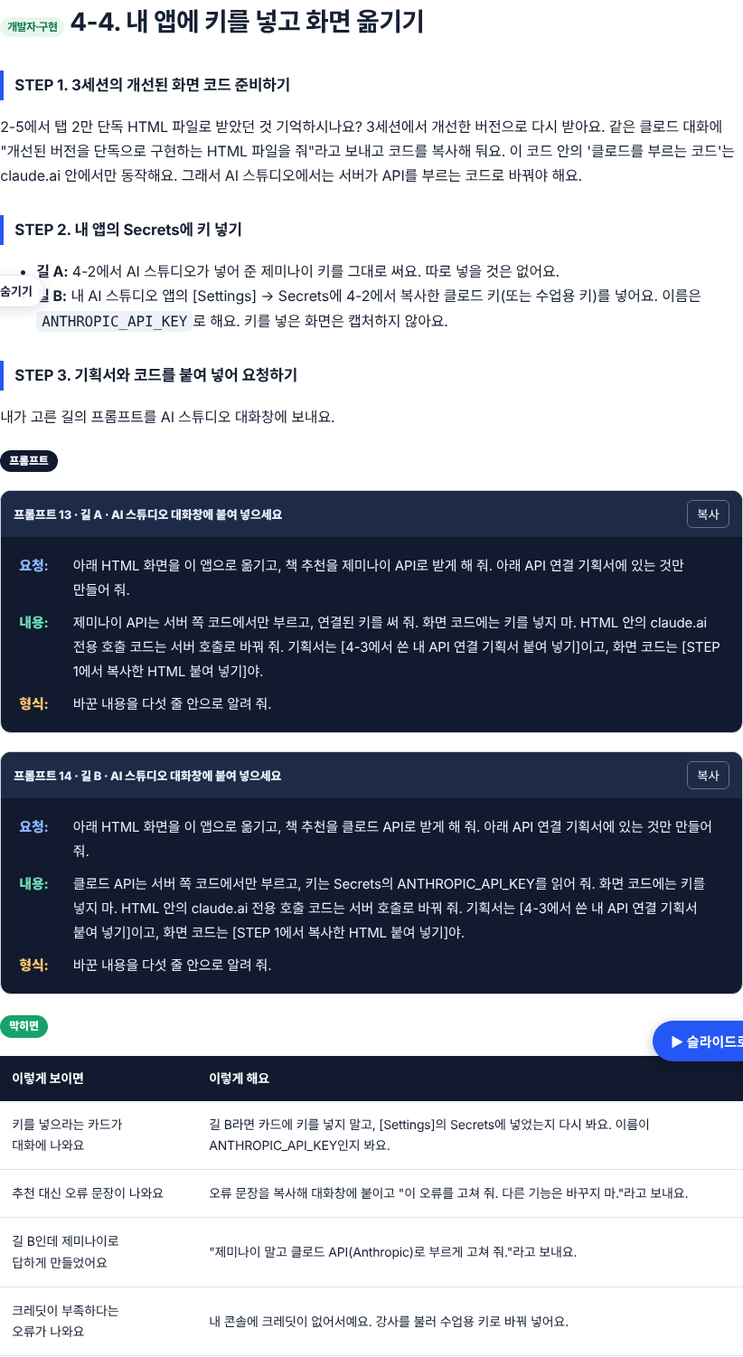
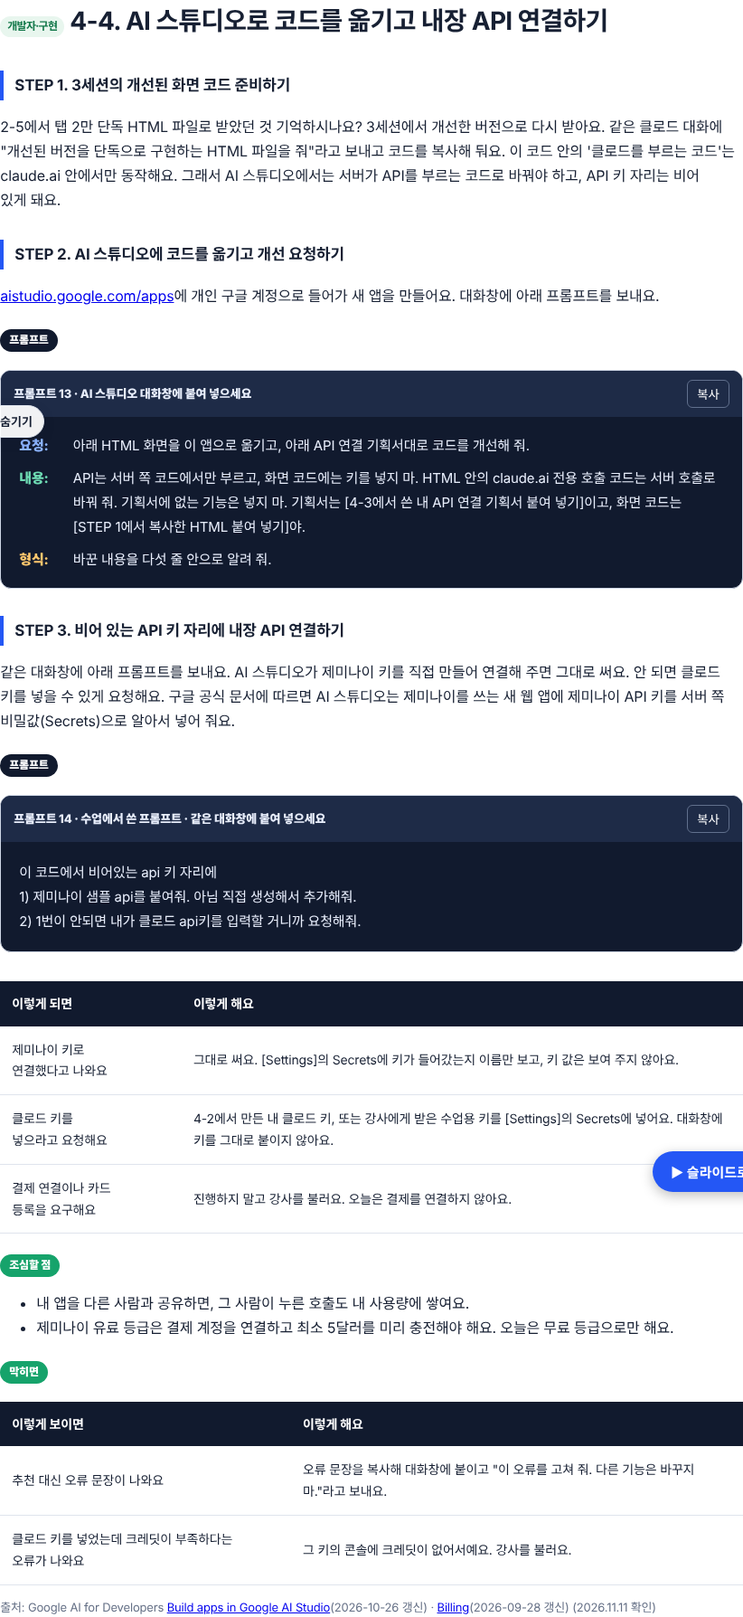
3주차 DAY 3 세션 4: 실제 진행(API 키 메뉴 찾기 → AI 스튜디오로 옮겨 내장 API 연결 → 코드 확인·Publish 테스트) 반영
Claude-Session: https://claude.ai/code/session_01C4uqyEJDMMad4kDgLNX9Dk

diff --git a/261109-ai-pm-week3/d3-ai-studio-books.html b/261109-ai-pm-week3/d3-ai-studio-books.html
@@ -298,7 +298,7 @@ aside nav a.active{border-left-color:var(--blue)}
 <div class="grp"><div class="grp-label">SESSION 1</div><a class="l2" href="#s1">LLM이 무엇이고 어디서 틀리나</a><a class="l3" href="#s1-1">1-1. LLM이란?</a><a class="l3" href="#s1-2">1-2. 책 추천과 링크를 받아 직접 눌러 보기</a><a class="l3" href="#s1-3">1-3. 결과</a></div>
 <div class="grp"><div class="grp-label">SESSION 2</div><a class="l2" href="#s2">클로드 아티팩트로 감정 책 추천 만들기</a><a class="l3" href="#s2-1">2-1. 웹 페이지에 AI를 붙이는 세 가지 길</a><a class="l3" href="#s2-2">2-2. 텍스트 프로토타입과 입력·처리·출력</a><a class="l3" href="#s2-3">2-3. 입력과 출력을 바꿔 다른 화면 만들기</a><a class="l3" href="#s2-4">2-4. 규칙 탭과 AI 탭 견주기</a><a class="l3" href="#s2-5">2-5. 코드에서 AI 탭의 차이 찾기</a><a class="l3" href="#s2-6">2-6. 개발자에게 줄 요구사항 쓰기</a><a class="l3" href="#s2-7">2-7. 결과</a></div>
 <div class="grp"><div class="grp-label">SESSION 3</div><a class="l2" href="#s3">요구사항으로 고치고 테스트하기</a><a class="l3" href="#s3-1">3-1. [기획자] 문제와 해결 방안 표</a><a class="l3" href="#s3-2">3-2. [구현] 개선 요청대로 고치기</a><a class="l3" href="#s3-3">3-3. [구현] AI에게 테스트 시키기</a><a class="l3" href="#s3-4">3-4. [확인] 검증표와 유저플로우</a><a class="l3" href="#s3-5">3-5. [구현] 개선된 버전 만들기</a><a class="l3" href="#s3-6">3-6. [확인] 무엇이 개선됐는지 묻기</a><a class="l3" href="#s3-7">3-7. [기획자] AS-IS·TO-BE 도식</a><a class="l3" href="#s3-8">3-8. 결과</a></div>
-<div class="grp"><div class="grp-label">SESSION 4</div><a class="l2" href="#s4">API 키를 만들어 AI 스튜디오 앱에 붙이기</a><a class="l3" href="#s4-1">4-1. 아티팩트 내장 AI vs API 키</a><a class="l3" href="#s4-2">4-2. API 키 만들기·사용량·한도</a><a class="l3" href="#s4-3">4-3. [기획자] API 연결 기획서</a><a class="l3" href="#s4-4">4-4. [구현] 내 앱에 키 넣고 옮기기</a><a class="l3" href="#s4-5">4-5. [확인] 기획서와 결과 견주기</a><a class="l3" href="#s4-6">4-6. 결과</a></div>
+<div class="grp"><div class="grp-label">SESSION 4</div><a class="l2" href="#s4">구글 AI 스튜디오로 옮기고 API 연결하기</a><a class="l3" href="#s4-1">4-1. 아티팩트 내장 AI vs API 키</a><a class="l3" href="#s4-2">4-2. API 키 메뉴·사용량·한도</a><a class="l3" href="#s4-3">4-3. [기획자] API 연결 기획서</a><a class="l3" href="#s4-4">4-4. [구현] AI 스튜디오로 옮기고 내장 API 연결</a><a class="l3" href="#s4-5">4-5. [확인] 키 위치 확인·배포 테스트</a><a class="l3" href="#s4-6">4-6. 결과</a></div>
 <div class="grp"><div class="grp-label">SESSION 5</div><a class="l2" href="#s5">추천 프롬프트 설계하기</a><a class="l3" href="#s5-1">5-1. 프롬프트를 잘 쓰는 세 가지 방법</a><a class="l3" href="#s5-2">5-2. [기획자] 추천 프롬프트 기획서</a><a class="l3" href="#s5-3">5-3. [구현] 기획서대로 지시문 바꾸기</a><a class="l3" href="#s5-4">5-4. [확인] 기획서와 결과 견주기</a><a class="l3" href="#s5-5">5-5. 결과</a></div>
 <div class="grp"><div class="grp-label">선택</div><a class="l2" href="#s6">근거를 주고 추천하기 (RAG 맛보기)</a><a class="l3" href="#s6-1">6-1. RAG란?</a><a class="l3" href="#s6-2">6-2. [기획자] 근거 추천 기획서</a><a class="l3" href="#s6-3">6-3. [구현] 기획서대로 목록 붙이기</a><a class="l3" href="#s6-4">6-4. [확인] 기획서와 결과 견주기</a><a class="l3" href="#s6-5">6-5. 결과</a></div>
 <div class="grp"><div class="grp-label">마무리</div><a class="l2" href="#wrap">오늘 정리와 과제</a></div>
@@ -310,7 +310,7 @@ aside nav a.active{border-left-color:var(--blue)}
 <header class="hero">
 <div class="kicker">AI 프로덕트 매니저 · 3주차 DAY 3 · 2026.11.11 (수)</div>
 <h1><em>오늘의 감정</em>을 넣으면 맞는 책 3권을 골라 주는 서비스를 클로드로 만들어요</h1>
-<p>감정 키워드를 넣으면 책 3권을 추천하는 프로토타입을 클로드 아티팩트로 만들어요. 먼저 LLM이 어디서 틀리는지 보고, 규칙으로 고르는 버전과 AI가 고르는 버전을 견줘요. 오후에는 기획자가 요구사항과 기획서를 쓰고, 개발자 입장에서 그대로 구현하고, 다시 기획자가 확인하는 흐름을 되풀이해요. 그 흐름으로 API 키를 직접 만들어 구글 AI 스튜디오 앱에 붙이고, 추천 프롬프트도 설계해요.</p>
+<p>감정 키워드를 넣으면 책 3권을 추천하는 프로토타입을 클로드 아티팩트로 만들어요. 먼저 LLM이 어디서 틀리는지 보고, 규칙으로 고르는 버전과 AI가 고르는 버전을 견줘요. 오후에는 기획자가 요구사항과 기획서를 쓰고, 개발자 입장에서 그대로 구현하고, 다시 기획자가 확인하는 흐름을 되풀이해요. 그 흐름으로 구글 AI 스튜디오에 코드를 옮겨 API를 연결하고, 추천 프롬프트도 설계해요.</p>
 <div class="hero-grid">
 <div><b>일정</b><span>11월 11일(수) 09:00–18:00 · 실시간 비대면</span></div>
 <div><b>준비물</b><span>크롬, 클로드 유료 계정, 개인 구글 계정</span></div>
@@ -324,7 +324,7 @@ aside nav a.active{border-left-color:var(--blue)}
 <tr><th>시간</th><td>09:00–18:00 (점심 12:00–13:00, 수업 8시간)</td></tr>
 <tr><th>교과</th><td>[기본] AI 서비스 개발 · 9일차 (총 18일)</td></tr>
 <tr><th>교육 목표</th><td>LLM의 개념과 한계를 알고, 사용자의 입력에 AI가 답하는 서비스를 기획자 → 구현 → 기획자 확인의 흐름으로 만들고, API 키로 내 앱에 붙인다.</td></tr>
-<tr><th>수업이 끝나면</th><td>① LLM이 무엇이고 어떤 답을 지어낼 수 있는지 말하기<br/>② 클로드 아티팩트로 규칙 탭과 AI 탭을 만들고 코드에서 지시문 찾기<br/>③ 요구사항을 입력·처리·출력으로 써서 고치고, 테스트하고, AS-IS·TO-BE로 정리하기<br/>④ API 키를 만들고 사용량·지출·한도를 확인한 뒤, 구글 AI 스튜디오 앱의 서버에 붙이기<br/>⑤ 추천 프롬프트 기획서를 쓰고 지시문 세 버전을 견주기</td></tr>
+<tr><th>수업이 끝나면</th><td>① LLM이 무엇이고 어떤 답을 지어낼 수 있는지 말하기<br/>② 클로드 아티팩트로 규칙 탭과 AI 탭을 만들고 코드에서 지시문 찾기<br/>③ 요구사항을 입력·처리·출력으로 써서 고치고, 테스트하고, AS-IS·TO-BE로 정리하기<br/>④ 구글 AI 스튜디오로 코드를 옮겨 API를 연결하고, 사용량·지출·한도를 확인하고, 배포해서 테스트하기<br/>⑤ 추천 프롬프트 기획서를 쓰고 지시문 세 버전을 견주기</td></tr>
 </table></div>
 </section>
 
@@ -345,7 +345,7 @@ aside nav a.active{border-left-color:var(--blue)}
 <tr><td>10:30–12:00</td><td>SESSION 2</td><td><a href="#s2">클로드 아티팩트로 감정 책 추천 만들기</a></td></tr>
 <tr><td>12:00–13:00</td><td>점심</td><td></td></tr>
 <tr><td>13:00–15:20</td><td>SESSION 3</td><td><a href="#s3">요구사항으로 고치고 테스트하기</a></td></tr>
-<tr><td>15:30–16:30</td><td>SESSION 4</td><td><a href="#s4">API 키를 만들어 AI 스튜디오 앱에 붙이기</a></td></tr>
+<tr><td>15:30–16:30</td><td>SESSION 4</td><td><a href="#s4">구글 AI 스튜디오로 옮기고 API 연결하기</a></td></tr>
 <tr><td>16:30–17:30</td><td>SESSION 5</td><td><a href="#s5">추천 프롬프트 설계하기</a></td></tr>
 <tr><td>시간이 남으면</td><td>선택</td><td><a href="#s6">근거를 주고 추천하기 (RAG 맛보기)</a></td></tr>
 <tr><td>17:30–18:00</td><td>정리·회고</td><td><a href="#wrap">오늘 정리와 과제</a></td></tr>
@@ -631,7 +631,7 @@ aside nav a.active{border-left-color:var(--blue)}
 </section>
 
 <section class="section session" id="s4">
-<div class="session-head"><div class="eyebrow">SESSION 4 · 15:30–16:30</div><h2>API 키를 만들어 구글 AI 스튜디오 앱에 붙이기</h2><p>지금까지는 클로드 아티팩트 안에서 클로드를 불렀어요. 이번에는 API 키를 직접 만들고, 구글 AI 스튜디오로 만든 내 앱에 그 키를 넣어요. 키를 만드는 길은 두 가지예요. 사용량과 지출을 어디서 보는지, 한도는 어떻게 거는지도 함께 익혀요.</p>
+<div class="session-head"><div class="eyebrow">SESSION 4 · 15:30–16:30</div><h2>구글 AI 스튜디오로 옮기고 API 연결하기</h2><p>지금까지는 클로드 아티팩트 안에서 클로드를 불렀어요. 이번에는 클로드 콘솔에서 API 키 메뉴를 찾아보고, 구글 AI 스튜디오로 코드를 옮겨 내장 API(제미나이 키)를 연결해요. 내장 API가 안 되면 클로드 키를 넣어요. 사용량과 지출을 어디서 보는지, 한도는 어떻게 거는지도 함께 익혀요.</p>
 <div class="why-box"><b>왜 하나?</b>실제 서비스는 아티팩트가 아니라 내 서버에서 AI를 불러요. 그때 API 키를 어디에 두고, 요금과 실패를 어떻게 다룰지는 기획자가 정해야 해요.</div></div>
 
 <div class="topic" id="s4-1"><h3><span class="stage">개념</span>4-1. 아티팩트 내장 AI와 API 키는 무엇이 다른가요?</h3>
@@ -644,67 +644,51 @@ aside nav a.active{border-left-color:var(--blue)}
 <p class="source-note">출처: Google AI for Developers <a href="https://ai.google.dev/gemini-api/docs/aistudio-build-mode" target="_blank" rel="noopener">Build apps in Google AI Studio</a>(2026-10-26 갱신) · <a href="https://ai.google.dev/gemini-api/docs/aistudio-fullstack" target="_blank" rel="noopener">Develop full-stack apps in Google AI Studio</a>(2026-10-20 갱신) (2026.11.11 확인)</p>
 </div>
 
-<div class="topic" id="s4-2"><h3><span class="stage">준비</span>4-2. API 키 만들기</h3>
-<p>두 길 중 하나를 골라요. 무료 등급 제미나이 키를 쓸 수 있다면 길 A로 해요. 어느 길이든 키를 만든 뒤 사용량·지출 화면을 열어 보고, 한도를 거는 곳까지 확인해요.</p>
-<div class="table-wrap"><table><tr><th></th><th>길 A · 구글 AI 스튜디오가 제미나이 키를 만들어 연결</th><th>길 B · 클로드 콘솔에서 내가 직접 키 만들기</th></tr>
-<tr><td><b>쓰는 AI</b></td><td>제미나이</td><td>클로드</td></tr>
-<tr><td><b>키를 만드는 사람</b></td><td>AI 스튜디오가 알아서 만들어 Secrets에 넣어요</td><td>내가 콘솔에서 만들고, 내 앱의 Secrets에 직접 넣어요</td></tr>
-<tr><td><b>요금</b></td><td>새 계정은 무료 등급으로 시작해요. 결제를 연결하지 않아요</td><td>선불 크레딧으로 결제해요. Pro 요금제에는 API 크레딧이 없어요</td></tr>
+<div class="topic" id="s4-2"><h3><span class="stage">준비</span>4-2. API 키 받기 메뉴 찾고, 사용량·한도 보는 곳 알기</h3>
+<p>먼저 클로드 콘솔에서 API 키를 받는 메뉴를 찾아봐요. 내 계정에서 키를 만들 수 있는지에 따라, 4-4에서 어떤 키를 쓸지가 정해져요.</p>
+<p><b>STEP 1. 클로드 콘솔에서 API 키 받기 메뉴 찾기</b></p>
+<ol class="do-steps">
+<li><p><a href="https://platform.claude.com" target="_blank" rel="noopener">platform.claude.com</a>(클로드 콘솔)에 로그인해요.</p></li>
+<li><p>API 키 메뉴를 찾아요. 메뉴가 안 보이면 주소창에 <a href="https://platform.claude.com/settings/keys" target="_blank" rel="noopener">platform.claude.com/settings/keys</a>를 넣어 바로 들어가요.</p></li>
+<li><p>[Create key]가 보이면 키 이름(예: <code class="inline">aipm-day3</code>)을 넣고 만들어요. 만든 키(<code class="inline">sk-ant-</code>로 시작)는 <b>만들 때 한 번만</b> 보여요. 바로 복사해 둬요.</p></li>
+</ol>
+<div class="table-wrap"><table><tr><th>이렇게 보이면</th><th>뜻</th><th>4-4에서 쓸 키</th></tr>
+<tr><td>[Create key]가 보이고 키를 만들었어요</td><td>내 콘솔에서 키를 만들 수 있어요. 다만 크레딧이 없으면 키로 부를 때 답이 오지 않아요</td><td>AI 스튜디오 내장 API를 먼저 쓰고, 클로드로 하고 싶으면 내 키</td></tr>
+<tr><td>API 키 메뉴가 없어요</td><td>교육기관에서 받은 계정은 API 키 메뉴가 없을 수 있어요. 개인 계정으로 로그인하면 보일 수 있어요</td><td>AI 스튜디오 내장 API</td></tr>
+<tr><td>키 화면 대신 크레딧 구매(결제) 화면이 나와요</td><td>클로드 API는 선불 크레딧으로 써요. Pro 요금제에는 API 크레딧이 없어요. 결제하지 않아요</td><td>AI 스튜디오 내장 API</td></tr>
 </table></div>
-
-<p><b>길 A. 구글 AI 스튜디오에서 제미나이 키 연결하기 (무료 등급 키를 쓸 수 있을 때)</b></p>
-<ol class="do-steps">
-<li><p><a href="https://aistudio.google.com/apps" target="_blank" rel="noopener">aistudio.google.com/apps</a>에 개인 구글 계정으로 들어가 새 앱을 만들어요.</p></li>
-<li><p>대화창에 "제미나이 API 키를 연결해서 동작하게 해 줘."라고 보내요. AI 스튜디오는 제미나이를 쓰는 새 웹 앱에 제미나이 API 키를 서버 쪽 Secrets로 알아서 넣어 줘요.</p></li>
-<li><p>[Settings]의 Secrets에 키가 들어갔는지 이름만 봐요. 키 값은 복사하거나 화면 공유로 보여 주지 않아요.</p></li>
-</ol>
-<p class="blk k-chk"><span>조심할 점</span></p>
+<div class="ref-box"><b>참고 · 수업용 클로드 키는 이렇게 운영해요 (강사)</b>
 <ul>
-<li>내 앱을 다른 사람과 공유하면, 그 사람이 누른 호출도 내 사용량에 쌓여요.</li>
-<li>오늘은 결제를 연결하지 않아요. 유료 등급은 결제 계정을 연결하고 최소 5달러를 미리 충전해야 해요.</li>
-<li>결제 연결이나 카드 등록을 요구하는 화면이 나오면 진행하지 말고, 길 B로 바꾸거나 강사를 불러요.</li>
-</ul>
-
-<p><b>길 B. 클로드 콘솔에서 API 키 직접 만들기</b></p>
-<ol class="do-steps">
-<li><p><a href="https://platform.claude.com" target="_blank" rel="noopener">platform.claude.com</a>(클로드 콘솔)에 로그인해요. 계정이 없으면 새로 만들어요.</p></li>
-<li><p>API 키 화면(<a href="https://platform.claude.com/settings/keys" target="_blank" rel="noopener">platform.claude.com/settings/keys</a>)에서 [Create key]를 눌러요.</p></li>
-<li><p>키 이름(예: <code class="inline">aipm-day3</code>)을 넣고, 만료 기간을 골라요.</p></li>
-<li><p>만든 키(<code class="inline">sk-ant-</code>로 시작)는 <b>만들 때 한 번만</b> 보여요. 바로 복사해 4-4에서 내 앱에 넣어요. 잃어버리면 다시 볼 수 없어서 새로 만들어야 해요.</p></li>
-</ol>
-<div class="notice"><b>크레딧이 없으면 키를 만들어도 답이 오지 않아요</b><br/>클로드 API는 선불 크레딧으로 써요. Pro 요금제에는 API 크레딧이 들어 있지 않아요. 내 콘솔에 크레딧이 없으면, 강사가 알려 주는 수업용 키를 내 앱에 넣어요.</div>
-
-<div class="ref-box"><b>참고 · 수업용 키는 이렇게 운영해요 (강사)</b>
-<ul>
-<li>Anthropic은 API 키를 다른 사람과 나누지 말고, 각자 키를 받으라고 안내해요. 오늘은 수업을 위해 강사가 만든 키 하나를 1시간 동안만 함께 쓰고, 수업이 끝나면 강사가 키를 지워요.</li>
+<li>Anthropic은 API 키를 다른 사람과 나누지 말고, 각자 키를 받으라고 안내해요. 내장 API가 안 되는 분이 있을 때만, 강사가 만든 수업용 키 하나를 1시간 동안 함께 쓰고, 수업이 끝나면 강사가 키를 지워요.</li>
 <li>강사는 수업용 워크스페이스를 따로 만들고, 그 워크스페이스에 월 지출 한도를 걸어요. 키는 그 워크스페이스 안에서 만들어요.</li>
-<li>키를 지우면 그 키로는 더 이상 클로드를 부를 수 없어요. 그래서 수업이 끝나면 수업용 키를 넣은 앱의 AI 기능은 멈춰요.</li>
+<li>수업용 키는 슬랙 공개 채널에 올리지 않고, 필요한 분에게만 따로 전달해요. 공개 채널에 올렸다면 수업이 끝나자마자 키를 지우고 메시지도 지워요.</li>
+<li>키를 지우면 그 키로는 더 이상 클로드를 부를 수 없어요. 그래서 수업용 키를 넣은 앱의 AI 기능은 수업 뒤에 멈춰요.</li>
 </ul>
-<p><b>학생이 지킬 것:</b> 키를 캡처하거나, 슬랙 공개 채널·깃헙·노션에 올리지 않아요. 키는 내 앱의 Secrets에만 넣어요.</p>
+<p><b>학생이 지킬 것:</b> 키를 캡처하거나, 슬랙 공개 채널·깃헙·노션에 올리지 않아요. 키는 내 앱 안에만 넣어요.</p>
 </div>
 
-<p><b>사용량·지출을 보고, 한도를 거는 곳</b></p>
-<p>키를 만들었으면 아래 화면을 직접 열어 봐요. 기획자는 "얼마나 쓰고 있는지"와 "어디서 멈추게 할지"를 알아야 해요.</p>
-<div class="table-wrap"><table><tr><th>보는 것</th><th>클로드 콘솔 (길 B)</th><th>구글 AI 스튜디오 (길 A)</th></tr>
+<p><b>STEP 2. 사용량·지출을 보고, 한도를 거는 곳 알기</b></p>
+<p>기획자는 "얼마나 쓰고 있는지"와 "어디서 멈추게 할지"를 알아야 해요. 내가 쓰는 쪽의 화면을 열어 봐요.</p>
+<div class="table-wrap"><table><tr><th>보는 것</th><th>클로드 콘솔</th><th>구글 AI 스튜디오</th></tr>
 <tr><td><b>사용량</b></td><td>[Usage] 화면 (<a href="https://platform.claude.com/usage" target="_blank" rel="noopener">platform.claude.com/usage</a>). 워크스페이스·모델·날짜·API 키별로 걸러 볼 수 있어요</td><td>[Dashboard] → [Usage]. 사용 한도는 <a href="https://aistudio.google.com/rate-limit" target="_blank" rel="noopener">aistudio.google.com/rate-limit</a></td></tr>
 <tr><td><b>지출</b></td><td>[Cost] 화면 (<a href="https://platform.claude.com/cost" target="_blank" rel="noopener">platform.claude.com/cost</a>). 워크스페이스·모델·달별로 볼 수 있어요</td><td>[Billing] 화면에서 잔액과 결제를 봐요 (무료 등급은 결제 없음)</td></tr>
 <tr><td><b>한도 걸기</b></td><td>[Workspaces]에서 워크스페이스를 고르고 [Spend limits] → [Change limit]로 월 지출 한도를 걸어요. 기본 워크스페이스에는 걸 수 없어요</td><td>[Spend] 화면의 [Monthly spend cap] → [Edit spend cap] (결제를 연결한 프로젝트)</td></tr>
 </table></div>
 <p class="blk k-chk"><span>확인할 점</span></p>
-<ul class="checklist"><li>길 A 또는 길 B로 키를 하나 준비했다</li><li>사용량 화면과 지출 화면을 열어 봤다</li><li>한도를 거는 메뉴가 어디 있는지 찾았다</li></ul>
-<div class="notice"><b>안 되면 강사를 불러요</b><br/>키 만들기 버튼이 눌리지 않거나, 화면이 교안과 다르거나, 키를 잃어버렸으면 혼자 오래 붙잡지 말고 슬랙 쓰레드나 손들기로 강사를 불러요.</div>
+<ul class="checklist"><li>내 계정에서 API 키 메뉴가 보이는지 확인했다</li><li>사용량·지출·한도 메뉴가 어디 있는지 찾았다</li></ul>
+<div class="notice"><b>안 되면 강사를 불러요</b><br/>화면이 교안과 다르거나 막히면 혼자 오래 붙잡지 말고 슬랙 쓰레드나 손들기로 강사를 불러요.</div>
 <p class="source-note">출처: Claude 공식 문서 <a href="https://platform.claude.com/docs/en/get-api-key" target="_blank" rel="noopener">Get your Claude API key</a> · Claude 고객센터 <a href="https://support.claude.com/en/articles/9534590-cost-and-usage-reporting-in-the-claude-console" target="_blank" rel="noopener">Cost and usage reporting in the Claude Console</a> · <a href="https://support.claude.com/en/articles/9796807-create-and-manage-workspaces-in-the-claude-console" target="_blank" rel="noopener">Create and manage Workspaces</a> · <a href="https://support.claude.com/en/articles/8977456-how-do-i-pay-for-my-claude-api-usage" target="_blank" rel="noopener">How do I pay for my Claude API usage?</a> · <a href="https://support.claude.com/en/articles/17154008-monthly-api-credits-for-max-ultra-and-team-plans" target="_blank" rel="noopener">Monthly API credits for Max, Ultra, and Team plans</a> · <a href="https://support.claude.com/en/articles/9767949-api-key-best-practices-keep-your-keys-safe-and-secure" target="_blank" rel="noopener">API key best practices</a> · Google AI for Developers <a href="https://ai.google.dev/gemini-api/docs/billing" target="_blank" rel="noopener">Billing</a>(2026-09-28 갱신) · <a href="https://ai.google.dev/gemini-api/docs/rate-limits" target="_blank" rel="noopener">Rate limits</a>(2026-10-28 갱신) (2026.11.11 확인)</p>
 </div>
 
 <div class="topic" id="s4-3"><h3><span class="stage plan">기획자</span>4-3. API 연결 기획서 쓰기</h3>
 <p>3세션에서 개선한 마음책방을 구글 AI 스튜디오 앱으로 옮겨, API로 답하게 해요. 개발자에게 넘기기 전에 기획서를 먼저 써요.</p>
-<p class="blk k-ex"><span>예시</span>API 연결 기획서 (길 B · 클로드)</p>
+<p class="blk k-ex"><span>예시</span>API 연결 기획서</p>
 <div class="table-wrap"><table>
 <tr><th>항목</th><th>내용</th></tr>
 <tr><td>옮길 화면</td><td>3세션에서 개선한 마음책방 (감정 입력 → 책 3권 카드)</td></tr>
 <tr><td>AI를 부르는 곳</td><td>[책 추천받기]를 누를 때 한 번</td></tr>
-<tr><td>쓸 AI</td><td>클로드 API, 모델은 클로드 하이쿠(claude-haiku-5-5). 길 A라면 AI 스튜디오가 고른 제미나이 모델</td></tr>
-<tr><td>키를 두는 곳</td><td>AI 스튜디오 Secrets. 서버 쪽 코드만 읽음. 화면 코드에는 두지 않음</td></tr>
+<tr><td>쓸 AI</td><td>AI 스튜디오 내장 API(무료 등급 제미나이). 안 되면 클로드 API(모델은 클로드 하이쿠, claude-haiku-5-5)</td></tr>
+<tr><td>키를 두는 곳</td><td>AI 스튜디오 [Settings]의 Secrets. 서버 쪽 코드만 읽음. 화면 코드에는 두지 않음</td></tr>
 <tr><td>지시문</td><td>3세션에서 개선한 지시문 그대로</td></tr>
 <tr><td>실패할 때</td><td>"지금은 추천을 불러오지 못했어요. 잠시 뒤에 다시 눌러 주세요" 한 줄</td></tr>
 <tr><td>그대로 둘 것</td><td>마음책방의 화면 구성과 디자인</td></tr>
@@ -726,54 +710,64 @@ aside nav a.active{border-left-color:var(--blue)}
 <ul class="checklist"><li>"키는 Secrets에만 두고 화면 코드에는 두지 않는다"가 기획서에 들어 있다</li><li>실패할 때 사용자에게 보여 줄 문구가 있다</li></ul>
 </div>
 
-<div class="topic" id="s4-4"><h3><span class="stage dev">개발자·구현</span>4-4. 내 앱에 키를 넣고 화면 옮기기</h3>
+<div class="topic" id="s4-4"><h3><span class="stage dev">개발자·구현</span>4-4. AI 스튜디오로 코드를 옮기고 내장 API 연결하기</h3>
 <p><b>STEP 1. 3세션의 개선된 화면 코드 준비하기</b></p>
-<p>2-5에서 탭 2만 단독 HTML 파일로 받았던 것 기억하시나요? 3세션에서 개선한 버전으로 다시 받아요. 같은 클로드 대화에 "개선된 버전을 단독으로 구현하는 HTML 파일을 줘"라고 보내고 코드를 복사해 둬요. 이 코드 안의 '클로드를 부르는 코드'는 claude.ai 안에서만 동작해요. 그래서 AI 스튜디오에서는 서버가 API를 부르는 코드로 바꿔야 해요.</p>
-<p><b>STEP 2. 내 앱의 Secrets에 키 넣기</b></p>
-<ul>
-<li><b>길 A:</b> 4-2에서 AI 스튜디오가 넣어 준 제미나이 키를 그대로 써요. 따로 넣을 것은 없어요.</li>
-<li><b>길 B:</b> 내 AI 스튜디오 앱의 [Settings] → Secrets에 4-2에서 복사한 클로드 키(또는 수업용 키)를 넣어요. 이름은 <code class="inline">ANTHROPIC_API_KEY</code>로 해요. 키를 넣은 화면은 캡처하지 않아요.</li>
-</ul>
-<p><b>STEP 3. 기획서와 코드를 붙여 넣어 요청하기</b></p>
-<p>내가 고른 길의 프롬프트를 AI 스튜디오 대화창에 보내요.</p>
+<p>2-5에서 탭 2만 단독 HTML 파일로 받았던 것 기억하시나요? 3세션에서 개선한 버전으로 다시 받아요. 같은 클로드 대화에 "개선된 버전을 단독으로 구현하는 HTML 파일을 줘"라고 보내고 코드를 복사해 둬요. 이 코드 안의 '클로드를 부르는 코드'는 claude.ai 안에서만 동작해요. 그래서 AI 스튜디오에서는 서버가 API를 부르는 코드로 바꿔야 하고, API 키 자리는 비어 있게 돼요.</p>
+<p><b>STEP 2. AI 스튜디오에 코드를 옮기고 개선 요청하기</b></p>
+<p><a href="https://aistudio.google.com/apps" target="_blank" rel="noopener">aistudio.google.com/apps</a>에 개인 구글 계정으로 들어가 새 앱을 만들어요. 대화창에 아래 프롬프트를 보내요.</p>
 <p class="blk k-pr"><span>프롬프트</span></p>
-<div class="copybox"><div class="copyhead"><span>프롬프트 13 · 길 A · AI 스튜디오 대화창에 붙여 넣으세요</span><button type="button">복사</button></div><pre>요청: 아래 HTML 화면을 이 앱으로 옮기고, 책 추천을 제미나이 API로 받게 해 줘. 아래 API 연결 기획서에 있는 것만 만들어 줘.
-내용: 제미나이 API는 서버 쪽 코드에서만 부르고, 연결된 키를 써 줘. 화면 코드에는 키를 넣지 마. HTML 안의 claude.ai 전용 호출 코드는 서버 호출로 바꿔 줘. 기획서는 [4-3에서 쓴 내 API 연결 기획서 붙여 넣기]이고, 화면 코드는 [STEP 1에서 복사한 HTML 붙여 넣기]야.
+<div class="copybox"><div class="copyhead"><span>프롬프트 13 · AI 스튜디오 대화창에 붙여 넣으세요</span><button type="button">복사</button></div><pre>요청: 아래 HTML 화면을 이 앱으로 옮기고, 아래 API 연결 기획서대로 코드를 개선해 줘.
+내용: API는 서버 쪽 코드에서만 부르고, 화면 코드에는 키를 넣지 마. HTML 안의 claude.ai 전용 호출 코드는 서버 호출로 바꿔 줘. 기획서에 없는 기능은 넣지 마. 기획서는 [4-3에서 쓴 내 API 연결 기획서 붙여 넣기]이고, 화면 코드는 [STEP 1에서 복사한 HTML 붙여 넣기]야.
 형식: 바꾼 내용을 다섯 줄 안으로 알려 줘.</pre></div>
-<div class="copybox"><div class="copyhead"><span>프롬프트 14 · 길 B · AI 스튜디오 대화창에 붙여 넣으세요</span><button type="button">복사</button></div><pre>요청: 아래 HTML 화면을 이 앱으로 옮기고, 책 추천을 클로드 API로 받게 해 줘. 아래 API 연결 기획서에 있는 것만 만들어 줘.
-내용: 클로드 API는 서버 쪽 코드에서만 부르고, 키는 Secrets의 ANTHROPIC_API_KEY를 읽어 줘. 화면 코드에는 키를 넣지 마. HTML 안의 claude.ai 전용 호출 코드는 서버 호출로 바꿔 줘. 기획서는 [4-3에서 쓴 내 API 연결 기획서 붙여 넣기]이고, 화면 코드는 [STEP 1에서 복사한 HTML 붙여 넣기]야.
-형식: 바꾼 내용을 다섯 줄 안으로 알려 줘.</pre></div>
+<p><b>STEP 3. 비어 있는 API 키 자리에 내장 API 연결하기</b></p>
+<p>같은 대화창에 아래 프롬프트를 보내요. AI 스튜디오가 제미나이 키를 직접 만들어 연결해 주면 그대로 써요. 안 되면 클로드 키를 넣을 수 있게 요청해요. 구글 공식 문서에 따르면 AI 스튜디오는 제미나이를 쓰는 새 웹 앱에 제미나이 API 키를 서버 쪽 비밀값(Secrets)으로 알아서 넣어 줘요.</p>
+<p class="blk k-pr"><span>프롬프트</span></p>
+<div class="copybox"><div class="copyhead"><span>프롬프트 14 · 수업에서 쓴 프롬프트 · 같은 대화창에 붙여 넣으세요</span><button type="button">복사</button></div><pre>이 코드에서 비어있는 api 키 자리에
+1) 제미나이 샘플 api를 붙여줘. 아님 직접 생성해서 추가해줘.
+2) 1번이 안되면 내가 클로드 api키를 입력할 거니까 요청해줘.</pre></div>
+<div class="table-wrap"><table><tr><th>이렇게 되면</th><th>이렇게 해요</th></tr>
+<tr><td>제미나이 키로 연결했다고 나와요</td><td>그대로 써요. [Settings]의 Secrets에 키가 들어갔는지 이름만 보고, 키 값은 보여 주지 않아요.</td></tr>
+<tr><td>클로드 키를 넣으라고 요청해요</td><td>4-2에서 만든 내 클로드 키, 또는 강사에게 받은 수업용 키를 [Settings]의 Secrets에 넣어요. 대화창에 키를 그대로 붙이지 않아요.</td></tr>
+<tr><td>결제 연결이나 카드 등록을 요구해요</td><td>진행하지 말고 강사를 불러요. 오늘은 결제를 연결하지 않아요.</td></tr>
+</table></div>
+<p class="blk k-chk"><span>조심할 점</span></p>
+<ul>
+<li>내 앱을 다른 사람과 공유하면, 그 사람이 누른 호출도 내 사용량에 쌓여요.</li>
+<li>제미나이 유료 등급은 결제 계정을 연결하고 최소 5달러를 미리 충전해야 해요. 오늘은 무료 등급으로만 해요.</li>
+</ul>
 <p class="blk k-chk"><span>막히면</span></p>
 <div class="table-wrap"><table><tr><th>이렇게 보이면</th><th>이렇게 해요</th></tr>
-<tr><td>키를 넣으라는 카드가 대화에 나와요</td><td>길 B라면 카드에 키를 넣지 말고, [Settings]의 Secrets에 넣었는지 다시 봐요. 이름이 ANTHROPIC_API_KEY인지 봐요.</td></tr>
 <tr><td>추천 대신 오류 문장이 나와요</td><td>오류 문장을 복사해 대화창에 붙이고 "이 오류를 고쳐 줘. 다른 기능은 바꾸지 마."라고 보내요.</td></tr>
-<tr><td>길 B인데 제미나이로 답하게 만들었어요</td><td>"제미나이 말고 클로드 API(Anthropic)로 부르게 고쳐 줘."라고 보내요.</td></tr>
-<tr><td>크레딧이 부족하다는 오류가 나와요</td><td>내 콘솔에 크레딧이 없어서예요. 강사를 불러 수업용 키로 바꿔 넣어요.</td></tr>
+<tr><td>클로드 키를 넣었는데 크레딧이 부족하다는 오류가 나와요</td><td>그 키의 콘솔에 크레딧이 없어서예요. 강사를 불러요.</td></tr>
 </table></div>
+<p class="source-note">출처: Google AI for Developers <a href="https://ai.google.dev/gemini-api/docs/aistudio-build-mode" target="_blank" rel="noopener">Build apps in Google AI Studio</a>(2026-10-26 갱신) · <a href="https://ai.google.dev/gemini-api/docs/billing" target="_blank" rel="noopener">Billing</a>(2026-09-28 갱신) (2026.11.11 확인)</p>
 </div>
 
-<div class="topic" id="s4-5"><h3><span class="stage check">기획자·확인</span>4-5. 기획서와 결과 견주기</h3>
-<p>기획자로 돌아와요. 4-3 기획서의 완료 기준으로 판단하고, 4-2에서 열어 본 사용량 화면에 오늘 부른 호출이 쌓였는지도 봐요.</p>
+<div class="topic" id="s4-5"><h3><span class="stage check">기획자·확인</span>4-5. 키가 연결된 곳을 코드로 확인하고, 배포해서 테스트하기</h3>
+<p>기획자로 돌아와요. "연결했어요"라는 답만 믿지 않고, 실제 코드에서 키가 어떻게 들어갔는지 확인해요. 그다음 배포한 결과물에서도 서비스가 잘 동작하는지 봐요.</p>
+<p><b>STEP 1. 키가 연결된 부분을 코드로 확인하기</b></p>
 <p class="blk k-pr"><span>프롬프트</span></p>
-<div class="copybox"><div class="copyhead"><span>프롬프트 15 · AI 스튜디오 대화창에 붙여 넣으세요</span><button type="button">복사</button></div><pre>요청: 이 앱에서 API 키가 어디에서 쓰이는지 알려 줘. 코드는 바꾸지 마.
+<div class="copybox"><div class="copyhead"><span>프롬프트 15 · AI 스튜디오 대화창에 붙여 넣으세요</span><button type="button">복사</button></div><pre>요청: 이 앱에서 API 키가 연결된 부분을 코드로 보여 줘. 코드는 바꾸지 마.
 내용: 사용자의 브라우저로 내려가는 화면 코드에 키 값이나 키를 읽는 코드가 있는지, 서버 쪽 코드에서만 쓰는지 나눠서 봐 줘. 실패할 때 보여 주는 문구가 코드 어디에 있는지도 알려 줘.
-형식: '화면 코드: 있음/없음', '서버 코드: 파일 이름', '실패 문구: 파일 이름' 세 줄.</pre></div>
+형식: '화면 코드: 있음/없음', '서버 코드: 파일 이름과 해당 줄', '실패 문구: 파일 이름' 세 줄.</pre></div>
+<p><b>STEP 2. 배포해서 테스트하기</b></p>
+<p>오른쪽 위의 [Publish]를 눌러 앱을 배포해요. 배포된 주소를 열어 감정 3개로 [책 추천받기]를 눌러 봐요. 미리보기에서 되던 것이 배포된 앱에서도 되는지 봐요.</p>
 <p class="blk k-tpl"><span>빈 템플릿</span>API 연결 확인표</p>
 <div class="table-wrap"><table class="tpl">
 <tr><th>완료 기준</th><th>판단(맞다·아니다)</th><th>확인한 것</th></tr>
-<tr><td>감정 3개 모두 카드가 나온다</td><td></td><td></td></tr>
+<tr><td>감정 3개 모두 카드가 나온다 (미리보기)</td><td></td><td></td></tr>
+<tr><td>배포된 앱에서도 카드가 나온다</td><td></td><td></td></tr>
 <tr><td>화면 코드에 키가 없다</td><td></td><td></td></tr>
 <tr><td>실패 문구가 코드에 들어 있다</td><td></td><td></td></tr>
 <tr><td>사용량 화면에 오늘 호출이 쌓였다</td><td></td><td></td></tr>
-<tr><td>[내 기획서의 완료 기준]</td><td></td><td></td></tr>
 </table></div>
 <p class="blk k-chk"><span>확인할 점</span></p>
-<ul class="checklist"><li>[책 추천받기]를 누를 때마다 사용량을 써요. 감정마다 한 번씩만 눌렀다</li><li>2·3세션 아티팩트와 같은 감정으로 눌러, 답이 비슷한지 견줘 봤다</li></ul>
+<ul class="checklist"><li>[책 추천받기]를 누를 때마다 사용량을 써요. 감정마다 한 번씩만 눌렀다</li><li>2·3세션 아티팩트와 같은 감정으로 눌러, 답이 비슷한지 견줘 봤다</li><li>결과 화면을 슬랙 쓰레드에 올렸다</li></ul>
 </div>
 
 <div class="topic" id="s4-6"><h3><span class="stage">결과</span>4-6. 결과</h3>
-<div class="result-box"><b>결과물</b> API 키(길 A 또는 B) + API 연결 기획서 + API로 답하는 AI 스튜디오 앱 + API 연결 확인표</div>
-<p class="ok-line"><b>이렇게 보이면 성공</b>"키는 Secrets에, 호출은 서버에서"를 내 앱으로 설명하고, 사용량·지출·한도 메뉴를 찾아 보여 줄 수 있다</p>
+<div class="result-box"><b>결과물</b> API 연결 기획서 + 내장 API(또는 클로드 키)로 답하는 AI 스튜디오 앱 + 배포 주소 + API 연결 확인표</div>
+<p class="ok-line"><b>이렇게 보이면 성공</b>배포된 앱에서 추천이 나오고, 키가 연결된 코드 위치와 사용량·지출·한도 메뉴를 보여 줄 수 있다</p>
 </div>
 </section>
 

diff --git a/_pr-notes/d3_클로드아티팩트_세션2-5교체_261111/README.md b/_pr-notes/d3_클로드아티팩트_세션2-5교체_261111/README.md
@@ -1,5 +1,12 @@
 # DAY 3 세션 2~6 교체 (구글 AI 스튜디오·제미나이 → 클로드 아티팩트 + 클로드 API) · 2026-11-11
 
+## 4차 수정 (16:03~16:33 실제 진행 반영)
+- 세션 4 제목을 "구글 AI 스튜디오로 옮기고 API 연결하기"로
+- 4-2: 클로드 콘솔에서 API 키 받기 메뉴 찾기(메뉴가 없으면 settings/keys 주소) + 결과별 안내표(키 생성됨 / 메뉴 없음(교육기관 계정) / 크레딧 구매 화면) + 사용량·지출·한도 표 + 수업용 키 운영(공개 채널에 올리지 않기, 올렸다면 수업 직후 키·메시지 삭제)
+- 4-4: AI 스튜디오로 코드 옮겨 개선 요청 → 수업 프롬프트 원문("비어있는 api 키 자리에 1) 제미나이 샘플 api… 2) 안되면 클로드 api키 요청") → 결과별 대응표
+- 4-5: 키가 연결된 부분을 코드로 확인(16:24 피드백) → 오른쪽 위 [Publish]로 배포해 테스트(16:25 피드백)
+- 길 A/길 B 표현 삭제
+
 ## 3차 수정 (로린 님 요청: API 키 만들기를 먼저)
 - 세션 4를 "API 키를 만들어 구글 AI 스튜디오 앱에 붙이기"로 다시 씀: 4-1 개념 → **4-2 API 키 만들기** (길 A: AI 스튜디오가 제미나이 키를 알아서 연결 / 길 B: 클로드 콘솔에서 직접 키 만들기, 크레딧 없으면 수업용 키) + **사용량·지출·한도 메뉴 표**(클로드 Usage·Cost·Workspaces Spend limits / AI 스튜디오 Dashboard>Usage·rate-limit·Spend) + **안 되면 강사 호출** → 4-3 [기획자] API 연결 기획서 → 4-4 [구현] **각자 앱의 Secrets에 키 넣기**, 길별 프롬프트 2개 → 4-5 [확인] 사용량 화면 확인 포함 → 4-6 결과
 - 프롬프트 번호 1~17로 다시 매김
@@ -30,10 +37,9 @@
 | 타임테이블 | ![](pc_timetable.png) |
 | 2-6 기획자 요구사항 | ![](pc_s2-6.png) |
 | 3-7 AS-IS·TO-BE 도식 | ![](pc_s3-7.png) |
-| 4-2 API 키 만들기·사용량·한도 | ![](pc_s4-2.png) |
-| 4-3 API 연결 기획서 | ![](pc_s4-3.png) |
-| 4-4 내 앱에 키 넣고 옮기기 | ![](pc_s4-4.png) |
-| 4-2 사용량·지출·한도 표(휴대폰 390px) | ![](mobile_s4-2_usage.png) |
+| 4-2 API 키 메뉴·사용량·한도 | ![](pc_s4-2.png) |
+| 4-4 AI 스튜디오로 옮기고 내장 API 연결 | ![](pc_s4-4.png) |
+| 4-5 키 위치 확인·배포 테스트 | ![](pc_s4-5.png) |
 | 5-2 추천 프롬프트 기획서 | ![](pc_s5-2.png) |
 | 6-2 근거 추천 기획서(선택) | ![](pc_s6-2.png) |
 | 5-1 참고 박스(휴대폰 390px) | ![](mobile_s5-1_ref.png) |
